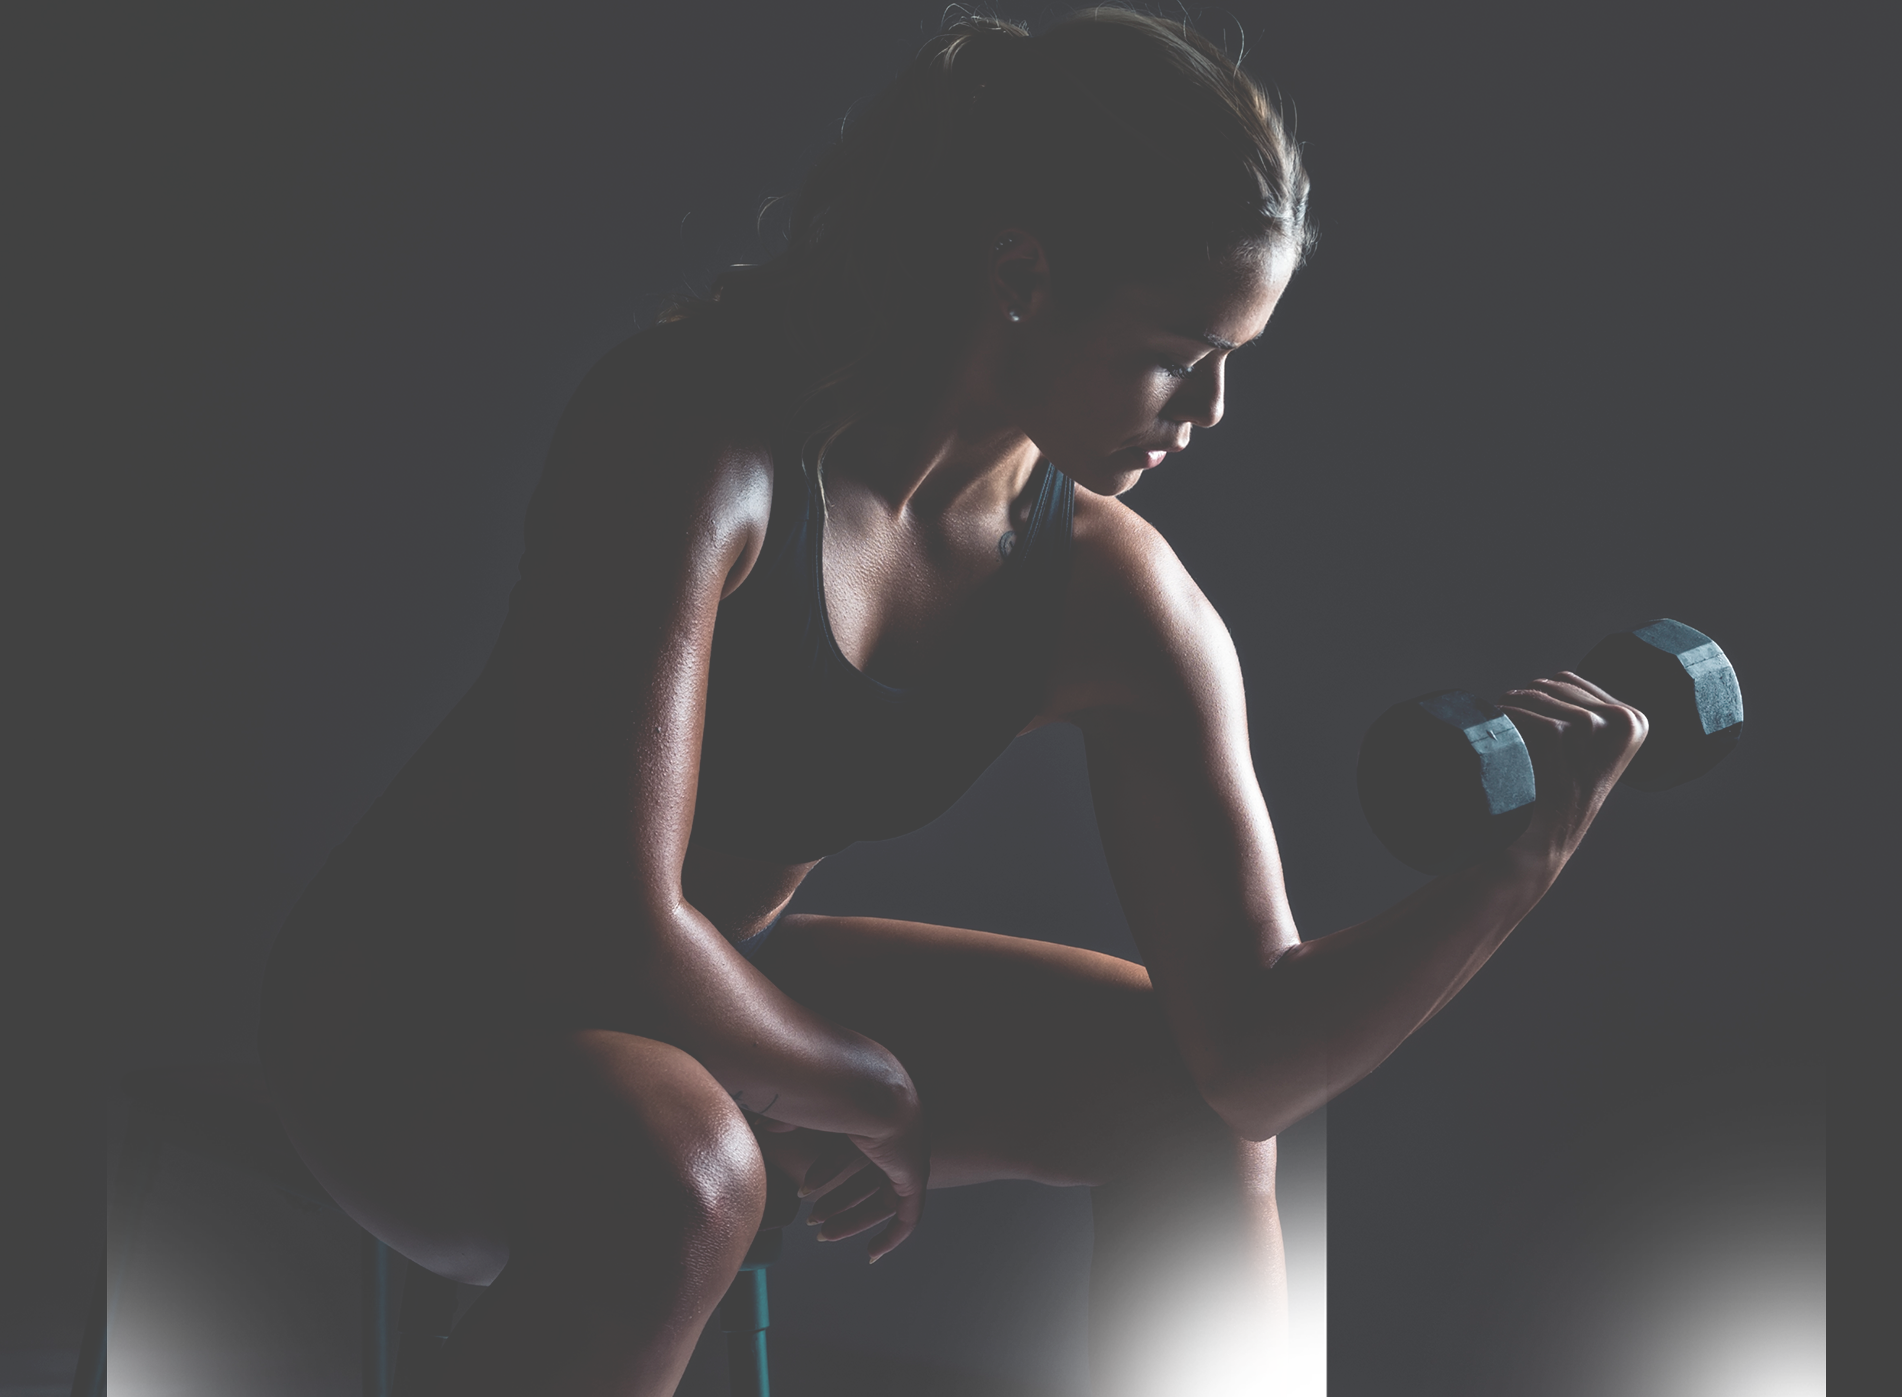
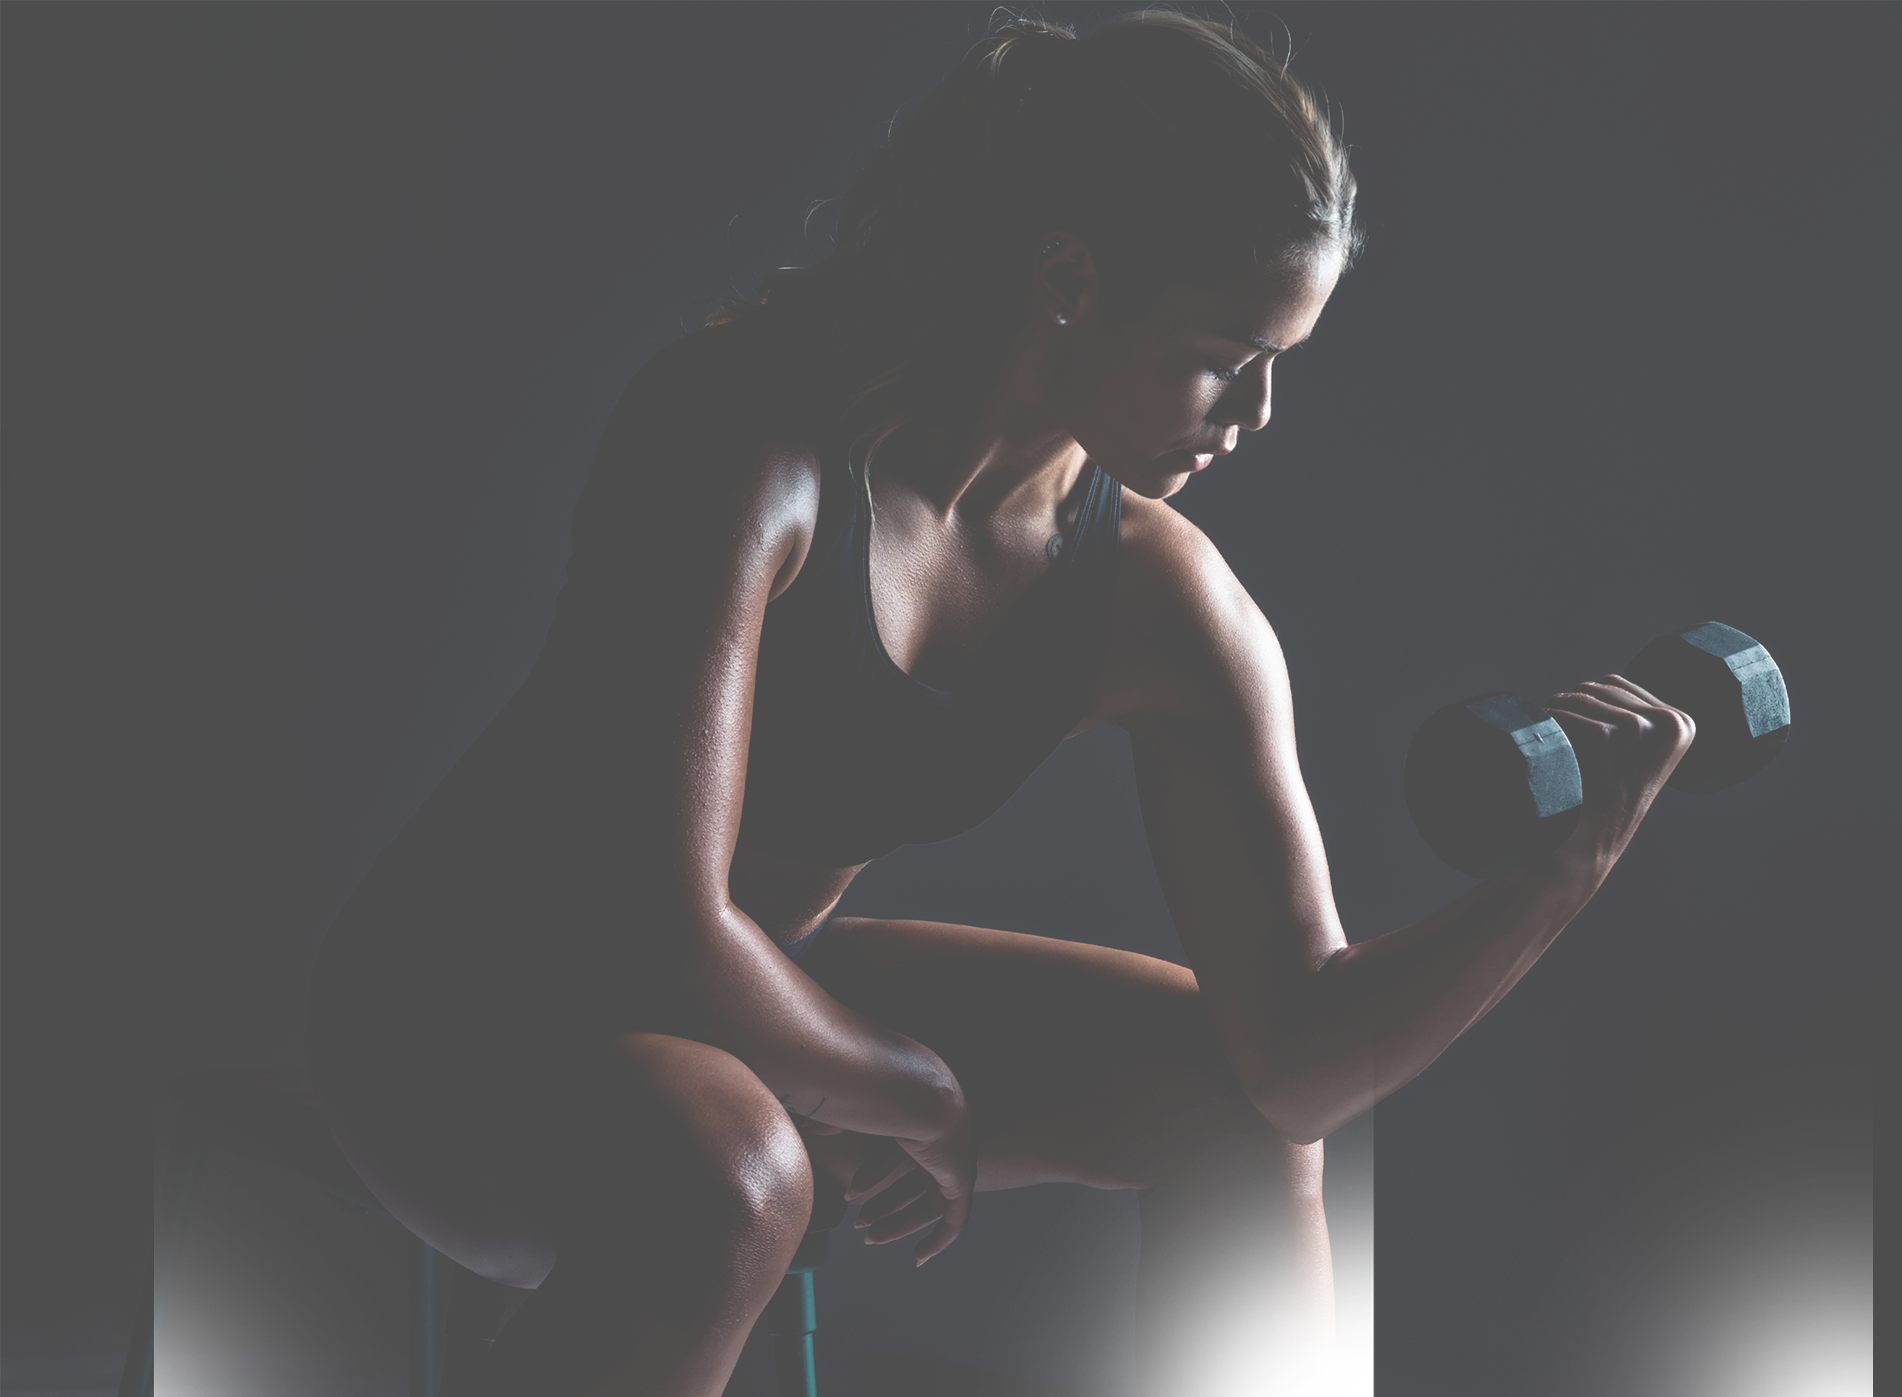
add new section "description"

diff --git a/index.html b/index.html
@@ -34,8 +34,8 @@
     <div class="container">
         <div class="row">
             <div class="col-12 text-center mb-sm-5">
-                <h1><span>lose</span> weight</h1>
-                <h2><span>without the</span> hassle</h2>
+                <h1><span class="transparent-text">lose</span> weight</h1>
+                <h2><span class="transparent-text">without the</span> hassle</h2>
             </div>
 
             <div class="col-sm-8 mb-sm-5 text-sm-center text-uppercase">
@@ -46,7 +46,7 @@
 
                 <p class="mb-0">With OneShot Keto, Get Ready To:</p>
 
-                <ul class="d-sm-inline-block">
+                <ul class="d-sm-inline-block list-unstyled">
                     <li>Get Your Body In Ketosis FAST</li>
                     <li>Burn Fat For Energy not Carbs</li>
                     <li>Increase Energy Naturally</li>
@@ -73,6 +73,50 @@
         </div>
     </div>
 </section>
+
+<section class="description px-sm-5">
+    <div class="wrapper-description">
+        <div class="container">
+            <div class="row">
+                <div class="col-sm-6">
+                    <h2 class="text-uppercase mb-sm-4">
+                        <span class="d-block transparent-text">WHY</span>
+                        OneShot Keto?
+                    </h2>
+
+                    <ul class="list-unstyled">
+
+                        <li>Getting your body into ketosis is a very powerful and effective way to lose weight in a
+                            short amount of time, but it is very difficult to achieve and maintain on your own. You can
+                            achieve ketosis through an intensely strict diet, but after a few days without any help,
+                            many people deem the diet to be just too daunting a task because quite frankly, it is!
+                        </li>
+
+                        <li>OneShot Keto provides your body with the right conditions to get into ketosis, which would
+                            otherwise be extremely challenging. It takes a hard-to-reach task and puts it right in front
+                            of you, so all you have to do is reach out with your hand and grab it. OneShot Keto does
+                            this by incorporating BHB (Beta-hydroxybutyrate) into its formula. This key ingredient is a
+                            ketone that gets your body used to burning them for energy. When this happens, your body
+                            will go for fat to turn into ketones for energy instead of carbs.
+                        </li>
+
+                        <li>
+                            <p class="mb-0">What does this mean? Fat burn and weight loss!</p>
+                            BHB also raises energy levels! So those of you that are cutting carbs and calories and
+                            feeling drained because of it, can continue STRONG with a boost of energy.
+                        </li>
+
+                    </ul>
+                </div>
+
+                <div class="col-sm-6">
+                    <img class="img-description" src="images/product-2.png" alt="product">
+                </div>
+            </div>
+        </div>
+    </div>
+</section>
+
 
 
 <script src="https://code.jquery.com/jquery-3.5.1.slim.min.js"

diff --git a/css/style.scss b/css/style.scss
@@ -1,4 +1,5 @@
 @import "fonts.css";
+
 $color_yellow: #e9e358;
 
 .default-btn {
@@ -7,7 +8,7 @@ $color_yellow: #e9e358;
   text-transform: uppercase;
   border: 1px solid white;
   border-radius: 0;
-  background: linear-gradient(180deg, rgba(255,227,0,1) 0%, rgba(222,131,17,1) 100%);
+  background: linear-gradient(180deg, rgba(255, 227, 0, 1) 0%, rgba(222, 131, 17, 1) 100%);
   box-shadow: none !important;
 
   &:hover {
@@ -16,44 +17,44 @@ $color_yellow: #e9e358;
   }
 }
 
- body {
-   background: #25398e;
- }
+.transparent-text {
+  color: transparent;
+  -webkit-text-stroke-width: 1px;
+  -webkit-text-stroke-color: #fff;
+}
 
- header {
-   background: #090d21;
-   border-bottom: 1px solid #818491;
+body {
+  background: #25398e;
+}
 
-   p {
-     font-size: 14px;
-     text-transform: uppercase;
-     font-family: Roboto-Bold;
-     color: $color_yellow;
-     letter-spacing: 0.9px;
+header {
+  background: #090d21;
+  border-bottom: 1px solid #818491;
 
-     i {
-       font-size: 18px;
-     }
-   }
- }
+  p {
+    font-size: 14px;
+    text-transform: uppercase;
+    font-family: Roboto-Bold;
+    color: $color_yellow;
+    letter-spacing: 0.9px;
+
+    i {
+      font-size: 18px;
+    }
+  }
+}
 
 section.banner {
   padding: 100px 0;
   background-image: url("../images/bg-baner.png");
-  background-size: cover;
-  background-position: center 0;
+  background-position: -80px 0;
+  background-size: 110%;
   background-repeat: no-repeat;
 
   h1, h2 {
     font-family: AvenirNext-Bold;
     color: $color_yellow;
     text-transform: uppercase;
-
-    span {
-      color: transparent;
-      -webkit-text-stroke-width: 1px;
-      -webkit-text-stroke-color: #fff;
-    }
   }
 
   h1 {
@@ -89,7 +90,6 @@ section.banner {
     li {
       text-transform: capitalize;
       text-align: start;
-      list-style: none;
       color: #fff;
       font-family: AvenirNextLTPro-Demi;
       font-size: 22px;
@@ -116,5 +116,49 @@ section.banner {
 
   a.btn-banner {
     font-size: 26px;
+  }
+
+}
+
+section.description {
+  background: linear-gradient(180deg, rgba(12, 17, 43, 1) 0%, rgba(37, 57, 142, 1) 100%);
+
+  .wrapper-description {
+    background: #c64276;
+    padding-top: 64px;
+    border-radius: 50px 50px 0 0;
+
+    h2 {
+      font-family: AvenirNext-Bold;
+      color: #fff;
+      font-size: 62px;
+      line-height: 55px;
+
+      span {
+        font-size: 55px;
+      }
+    }
+
+    ul {
+      li {
+        font-family: AvenirNextLTPro-Regular;
+        color: #fff;
+        font-size: 16px;
+        margin-bottom: 30px;
+
+        p {
+          font-family: AvenirNextLTPro-Bold;
+          font-size: 18px;
+        }
+      }
+    }
+
+    img.img-description {
+      position: absolute;
+      right: -56px;
+      bottom: 0;
+      max-width: 950px;
+      max-height: 800px;
+    }
   }
 }

diff --git a/css/style.css b/css/style.css
@@ -11,6 +11,11 @@
     color: white;
     border: 1px solid; }
 
+.transparent-text {
+  color: transparent;
+  -webkit-text-stroke-width: 1px;
+  -webkit-text-stroke-color: #fff; }
+
 body {
   background: #25398e; }
 
@@ -29,17 +34,13 @@ header {
 section.banner {
   padding: 100px 0;
   background-image: url("../images/bg-baner.png");
-  background-size: cover;
-  background-position: center 0;
+  background-position: -80px 0;
+  background-size: 110%;
   background-repeat: no-repeat; }
   section.banner h1, section.banner h2 {
     font-family: AvenirNext-Bold;
     color: #e9e358;
     text-transform: uppercase; }
-    section.banner h1 span, section.banner h2 span {
-      color: transparent;
-      -webkit-text-stroke-width: 1px;
-      -webkit-text-stroke-color: #fff; }
   section.banner h1 {
     font-size: 70px;
     line-height: 35px; }
@@ -62,7 +63,6 @@ section.banner {
   section.banner ul li {
     text-transform: capitalize;
     text-align: start;
-    list-style: none;
     color: #fff;
     font-family: AvenirNextLTPro-Demi;
     font-size: 22px;
@@ -80,3 +80,31 @@ section.banner {
     max-width: 250px; }
   section.banner a.btn-banner {
     font-size: 26px; }
+
+section.description {
+  background: linear-gradient(180deg, #0c112b 0%, #25398e 100%); }
+  section.description .wrapper-description {
+    background: #c64276;
+    padding-top: 64px;
+    border-radius: 50px 50px 0 0; }
+    section.description .wrapper-description h2 {
+      font-family: AvenirNext-Bold;
+      color: #fff;
+      font-size: 62px;
+      line-height: 55px; }
+      section.description .wrapper-description h2 span {
+        font-size: 55px; }
+    section.description .wrapper-description ul li {
+      font-family: AvenirNextLTPro-Regular;
+      color: #fff;
+      font-size: 16px;
+      margin-bottom: 30px; }
+      section.description .wrapper-description ul li p {
+        font-family: AvenirNextLTPro-Bold;
+        font-size: 18px; }
+    section.description .wrapper-description img.img-description {
+      position: absolute;
+      right: -56px;
+      bottom: 0;
+      max-width: 950px;
+      max-height: 800px; }
